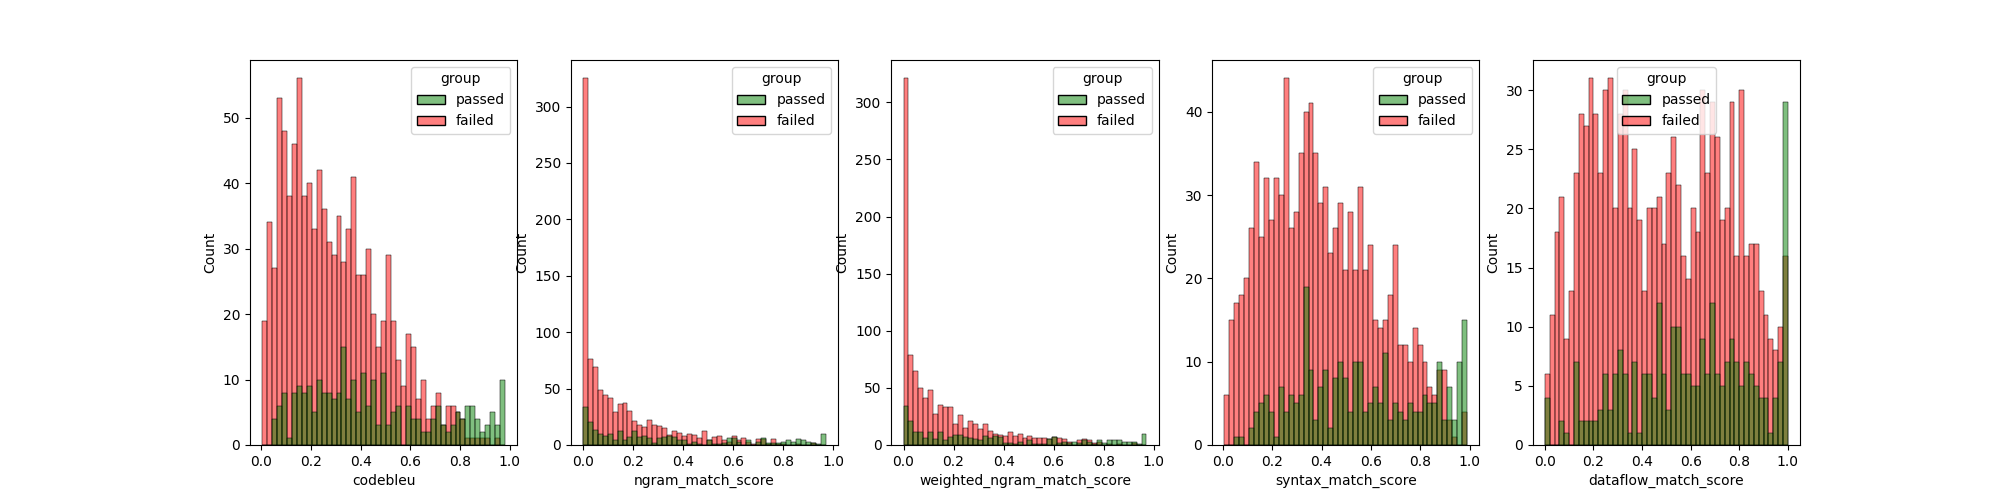
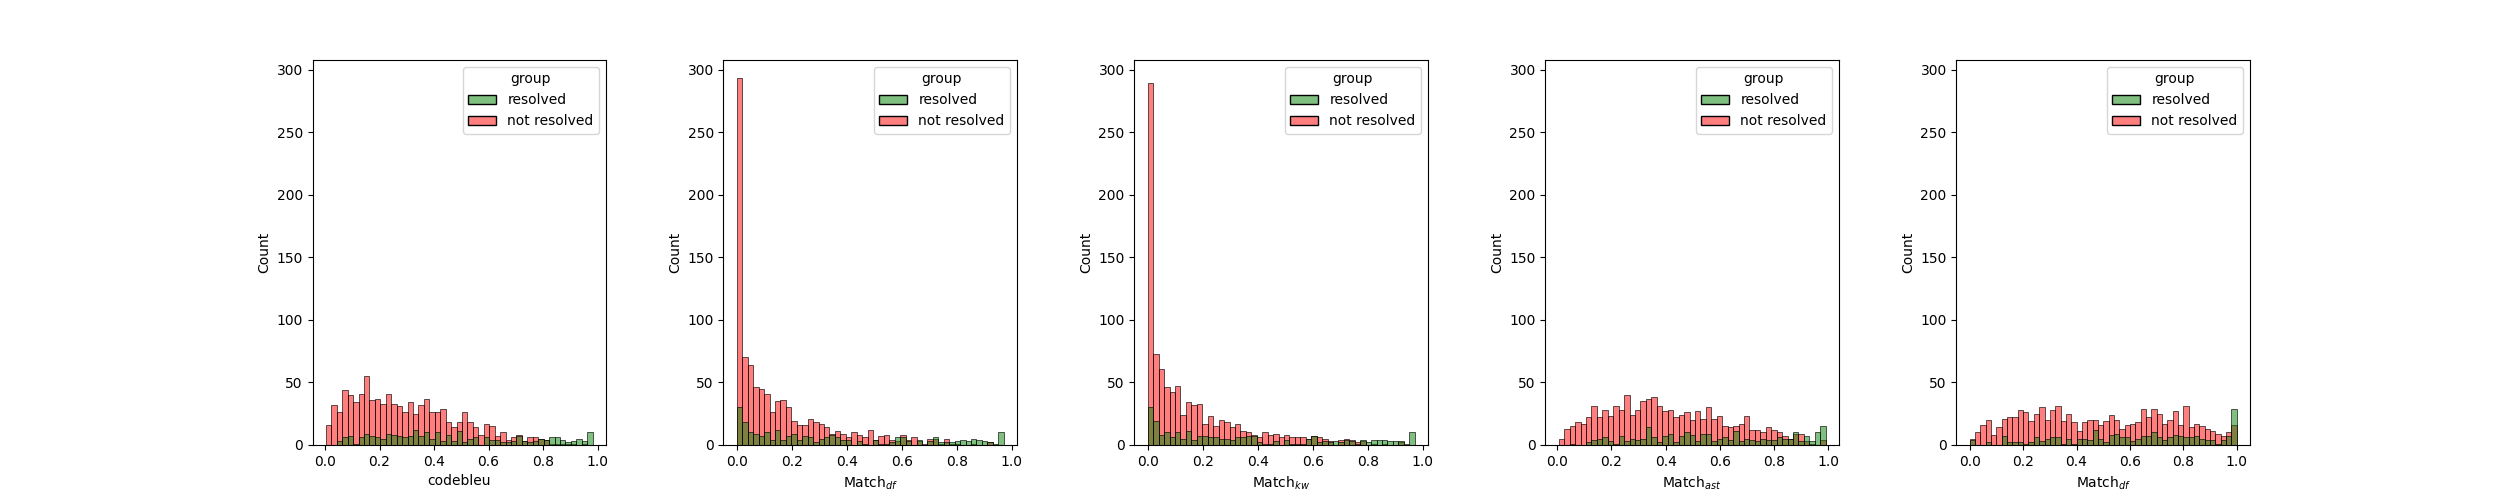
stuff

diff --git a/evaluate.py b/evaluate.py
@@ -10,6 +10,7 @@ from multiprocessing import Pool
 from pathlib import Path
 from typing import Any
 
+import argparse
 import black
 import matplotlib.pyplot as plt
 import pandas as pd
@@ -154,7 +155,7 @@ def prepare_instances():
             repohypos = hypotheses_by_repo[reponame]
             repohypos = [hypo for hypo in repohypos if hypo["instance_id"] not in known_iids]
             if len(repohypos) > 0:
-                print(f"Collecting {len(instances_by_repo[reponame])} instances for repo {reponame}.")
+                print(f"Collecting {len(hypotheses_by_repo[reponame])} instances for repo {reponame}.")
                 print(f"Collecting {len(repohypos)} instances not in output file.")
                 for hypothesis in tqdm.tqdm(repohypos):
                     source_files_content = {}
@@ -250,10 +251,10 @@ def snippet_instances():
                 instance["hypothesis_files_content"] = {key: val for key, val in instance["hypothesis_files_content"].items() if key.endswith(".py")}
                 assert len(instance["reference_files_content"]) == len(instance["source_files_content"])
                 assert len(instance["reference_files_content"]) == len(instance["hypothesis_files_content"])
-                for i in ["source", "reference", "hypothesis"]:
-                    instance[f"{i}_snippets_content"] = {
-                        k: generate_snippets(try_remove_comments_and_docstrings(v, lang="python")) for k, v in instance[f"{i}_files_content"].items()
-                    }
+                # for i in ["source", "reference", "hypothesis"]:
+                #     instance[f"{i}_snippets_content"] = {
+                #         k: generate_snippets(try_remove_comments_and_docstrings(v, lang="python")) for k, v in instance[f"{i}_files_content"].items()
+                #     }
                 selected_code_files += 1
                 output.write(json.dumps(instance) + "\n")
     print(
@@ -344,6 +345,18 @@ def score_instances():
                     instance["codegleu"] = codegleu.calc_codegleu(
                         [], [], [], lang="python", penalty=conf["codegleupenalty"], intermediates=intermediates, weights=conf["weights"]
                     )
+                    filelen = 0
+                    patchlen = 0
+                    for patchedFile in unidiff.PatchSet(instance["patch"]):
+                        hpaths: dict[str, Any] = instance["hypothesis_files_content"]
+                        if list(hpaths.keys())[0].split("\\")[0] == "experiments":
+                            hpaths = {"/".join(p.split("\\")[4:]): f for p, f in hpaths.items()}
+                        if list(hpaths.keys())[0].split("/")[0] == "experiments":
+                            hpaths = {"/".join(p.split("/")[4:]): f for p, f in hpaths.items()}
+                        if patchedFile.path in hpaths:
+                            filelen += len(hpaths[patchedFile.path])
+                            patchlen += len(str("".join("".join(str(line) for line in hunk) for hunk in patchedFile))) / 2
+                    instance["unchangedpercentage"] = max(0, 1 - (patchlen / filelen))
                     dprint(f"calculated scores for {instance['instance_id']} in {time.time() - s}s")
                     with output_lock:
                         pbar.update(1)
@@ -372,19 +385,26 @@ def recalc(instance):
     # instance["codegleu"] = codegleu.calc_codegleu(
     #     [], [], [], lang="python", penalty=conf["codegleupenalty"], intermediates=instance["intermediates"], weights=conf["weights"]
     # )
-    filelen = 0
-    patchlen = 0
-    for patchedFile in unidiff.PatchSet(instance["patch"]):
-        hpaths: dict[str, Any] = instance["hypothesis_files_content"]
-        if list(hpaths.keys())[0].split("\\")[0] == "experiments":
-            hpaths = {"/".join(p.split("\\")[4:]): f for p, f in hpaths.items()}
-        if list(hpaths.keys())[0].split("/")[0] == "experiments":
-            hpaths = {"/".join(p.split("/")[4:]): f for p, f in hpaths.items()}
-        if patchedFile.path in hpaths:
-            filelen += len(hpaths[patchedFile.path])
-            patchlen += len(str("".join("".join(str(line) for line in hunk) for hunk in patchedFile))) / 2
-    instance["unchangedpercentage"] = max(0, 1 - (patchlen / filelen))
+    if "unchangedpercentage" not in instance or not instance["unchangedpercentage"]:
+        filelen = 0
+        patchlen = 0
+        for patchedFile in unidiff.PatchSet(instance["patch"]):
+            hpaths: dict[str, Any] = instance["hypothesis_files_content"]
+            if list(hpaths.keys())[0].split("\\")[0] == "experiments":
+                hpaths = {"/".join(p.split("\\")[4:]): f for p, f in hpaths.items()}
+            if list(hpaths.keys())[0].split("/")[0] == "experiments":
+                hpaths = {"/".join(p.split("/")[4:]): f for p, f in hpaths.items()}
+            if patchedFile.path in hpaths:
+                filelen += len(hpaths[patchedFile.path])
+                patchlen += len(str("".join("".join(str(line) for line in hunk) for hunk in patchedFile))) / 2
+        instance["unchangedpercentage"] = max(0, 1 - (patchlen / filelen))
     return {k: instance[k] for k in ["codebleu", "codebleu_patch", "codegleu", "diffsim", "bleu", "instance_id", "unchangedpercentage"]}
+
+
+def write_log(*args, **kwargs):
+    with open(conf["log_loc"], "a+") as log_file:
+        print(*args, file=log_file, **kwargs)
+    print(*args, **kwargs)
 
 
 conf = {
@@ -397,18 +417,20 @@ conf = {
     "weights": (1,) * 4,
     "n_weights": (0.25,) * 4,
     "verbose": False,
+    "rankingscores_loc": f"./results/rankingscores.txt", 
 }
-conf["instances_dir"] = f"{conf['data_dir']}/instances"
-conf["model_path"] = f"{conf['data_dir']}/models/{conf['model']}"
-conf["preds_loc"] = f"{conf['model_path']}/all_preds.jsonl"
-conf["results_loc"] = f"{conf['model_path']}/results/results.json"
-conf["preprocessed_loc"] = f"{conf['model_path']}/preprocessed_instances.jsonl"
-conf["snippeted_loc"] = f"{conf['model_path']}/snippeted_instances.jsonl"
-conf["scored_loc"] = f"{conf['model_path']}/scored_instances.jsonl"
-conf["figs_loc"] = f"./figs/{conf['model']}"
 
 
 def main():
+    conf["instances_dir"] = f"{conf['data_dir']}/instances"
+    conf["model_path"] = f"{conf['data_dir']}/models/{conf['model']}"
+    conf["preds_loc"] = f"{conf['model_path']}/all_preds.jsonl"
+    conf["results_loc"] = f"{conf['model_path']}/results/results.json"
+    conf["preprocessed_loc"] = f"{conf['model_path']}/preprocessed_instances.jsonl"
+    conf["snippeted_loc"] = f"{conf['model_path']}/snippeted_instances.jsonl"
+    conf["scored_loc"] = f"{conf['model_path']}/scored_instances.jsonl"
+    conf["figs_loc"] = f"./figs/{conf['model']}"
+    conf["log_loc"] = f"./results/{conf['model']}.txt"
     os.environ["WANDB_SILENT"] = "true"
     wandb.login()
     wandb.init(project="codegleu", config=conf)
@@ -416,8 +438,9 @@ def main():
     prepare_instances()
     snippet_instances()
     score_instances()
-
-    print(
+    with open(conf["log_loc"], "w+") as log_file:
+        print(f"log for model {conf['model']} \n", file=log_file)
+    write_log(
         (f"pred_instances = {pred_instances}\n"),
         (f"invalid_instances = {invalid_instances}\n"),
         (f"valid_instances = {valid_instances}\n"),
@@ -471,50 +494,82 @@ def main():
                 notresolved.append(instance)
 
     total = len(resolved) + len(notresolved)
-    targetsize = min(conf["trim"], total) if conf["trim"] != -1 else total
-    resolved = random.sample(resolved, int(targetsize * len(resolved) / total + 0.5))
-    notresolved = random.sample(notresolved, int(targetsize * len(notresolved) / total + 0.5))
+    # targetsize = min(conf["trim"], total) if conf["trim"] != -1 else total
+    # resolved = random.sample(resolved, int(targetsize * len(resolved) / total + 0.5))
+    # notresolved = random.sample(notresolved, int(targetsize * len(notresolved) / total + 0.5))
 
     res_bleu = sum([i["bleu"] for i in resolved]) / len(resolved)
     res_codebleu = sum([i["codebleu"]["codebleu"] for i in resolved]) / len(resolved)
-    res_codegleu = sum([i["diffsim"]["diffsim"] for i in resolved]) / len(resolved)
+    res_codebleu_p = sum([i["codebleu_patch"]["codebleu"] for i in resolved]) / len(resolved)
+    res_codegleu = sum([i["codegleu"]["codegleu"] for i in resolved]) / len(resolved)
+    res_diffsim = sum([i["diffsim"]["diffsim"] for i in resolved]) / len(resolved)
 
     nres_bleu = sum([i["bleu"] for i in notresolved]) / len(notresolved)
     nres_codebleu = sum([i["codebleu"]["codebleu"] for i in notresolved]) / len(notresolved)
-    nres_codegleu = sum([i["diffsim"]["diffsim"] for i in notresolved]) / len(notresolved)
+    nres_codebleu_p = sum([i["codebleu_patch"]["codebleu"] for i in notresolved]) / len(notresolved)
+    nres_codegleu = sum([i["codegleu"]["codegleu"] for i in notresolved]) / len(notresolved)
+    nres_diffsim = sum([i["diffsim"]["diffsim"] for i in notresolved]) / len(notresolved)
 
     toscore = resolved + notresolved
     resornot = [1] * len(resolved) + [0] * len(notresolved)
 
-    print(f"Resolved Instance Averages:     BLEU: {res_bleu} CodeBLEU: {res_codebleu} CodeGLEU: {res_codegleu}")
-    print(f"Non-Resolved Instance Averages: BLEU: {nres_bleu} CodeBLEU: {nres_codebleu} CodeGLEU: {nres_codegleu}")
+    tot_bleu = sum([i["bleu"] for i in toscore]) / len(toscore)
+    tot_codebleu = sum([i["codebleu"]["codebleu"] for i in toscore]) / len(toscore)
+    tot_codebleu_p = sum([i["codebleu_patch"]["codebleu"] for i in toscore]) / len(toscore)
+    tot_codegleu = sum([i["codegleu"]["codegleu"] for i in toscore]) / len(toscore)
+    tot_diffsim = sum([i["diffsim"]["diffsim"] for i in toscore]) / len(toscore)
+
+    entries = []
+    with open(conf["rankingscores_loc"], "r+") as fp:
+        for line in fp:
+            js = json.loads(line)
+            if "model" in js and js["model"] != conf["model"]:
+                entries.append(js)
+    scores = {"model": conf["model"], "bleu": tot_bleu, "codebleu": tot_codebleu, "codegleu": tot_codegleu, "codebleu_p": tot_codebleu_p, "diffsim": tot_diffsim, "actual": len(resolved) / len(toscore)}
+    entries.append(scores)
+    with open(conf["rankingscores_loc"], "w+") as fp:
+        for js in entries:
+            fp.write(json.dumps(js) + "\n")
+
+    write_log(f"Instances. {len(toscore)}. resolved: {len(resolved)}. not resolved: {len(notresolved)}. % resolved: {len(resolved) / len(toscore)}")
+    write_log(f"Total Instance Averages:        BLEU: {tot_bleu} CodeBLEU: {tot_codebleu} CodeGLEU: {tot_codegleu} CodeBLEU_p: {tot_codebleu_p} FRITS: {tot_diffsim}")
+    write_log(f"Resolved Instance Averages:     BLEU: {res_bleu} CodeBLEU: {res_codebleu} CodeGLEU: {res_codegleu} CodeBLEU_p: {res_codebleu_p} FRITS: {res_diffsim}")
+    write_log(f"Non-Resolved Instance Averages: BLEU: {nres_bleu} CodeBLEU: {nres_codebleu} CodeGLEU: {nres_codegleu} CodeBLEU_p: {nres_codebleu_p} FRITS: {nres_diffsim}")
 
     pr = pearsonr(resornot, [i["unchangedpercentage"] for i in toscore])
-    print(f"Patch percentage vs resolved:   Correlation: {pr[0]} P-Value: {pr[1]} ")
+    write_log(f"Patch percentage vs resolved:   Correlation: {pr[0]} P-Value: {pr[1]} ")
 
     toscore = [i | {"bleu": {"bleu": i["bleu"]}} for i in toscore]
     padlen = 26
-    print(" " * 32 + "metric vs resolved          " + "metric vs unchangedpercent")
-    print(" " * 32 + "Correlation   P-Value       " + "Correlation   P-Value")
+    write_log(" " * 32 + "metric vs resolved          " + "metric vs unchangedpercent")
+    write_log(" " * 32 + "Correlation   P-Value       " + "Correlation   P-Value")
     for group in ["bleu", "codebleu", "codebleu_patch", "codegleu", "diffsim"]:
-        print(f"Performing Ablation Study for {group}")
+        write_log(f"Performing Ablation Study for {group}")
         scores = toscore[0][group]
         if isinstance(scores, dict):
             for score in scores:
-                print(f"    {score + ' ' * (padlen-len(score))} ", end="")
+                write_log(f"    {score + ' ' * (padlen-len(score))} ", end="")
                 pr = pearsonr(resornot, [i[group][score] for i in toscore])
-                print(f" {'%.10f' % pr[0]}, {'%.10f' % pr[1]} ", end="")
+                write_log(f" {'%.10f' % pr[0]}, " + str(pr[1]), end="")
                 wandb.log({f"mvr_{group}_{score}_corr": pr[0], f"mvr_{group}_{score}_p": pr[1]})
                 pr = pearsonr([i[group][score] for i in toscore], [i["unchangedpercentage"] for i in toscore])
-                print(f" {'%.10f' % pr[0]}, {'%.10f' % pr[1]} ")
+                write_log(f" {'%.10f' % pr[0]}, " + str(pr[1]))
                 wandb.log({f"mvp_{group}_{score}_corr": pr[0], f"mvp_{group}_{score}_p": pr[1]})
     if not os.path.exists(conf["figs_loc"]):
         os.mkdir(conf["figs_loc"])
     for n in ["codebleu", "codebleu_patch", "codegleu", "diffsim"]:
-        data = [s[n] | {"group": "passed" if r else "failed"} for s, r in zip(toscore, resornot)]
-        fig, axs = plt.subplots(ncols=5, figsize=(20, 5))
+        data = [s[n] | {"group": "resolved" if r else "not resolved"} for s, r in zip(toscore, resornot)]
+        fig, axs = plt.subplots(ncols=5, figsize=(25, 5))
+        plots = []
         for i, k in enumerate(toscore[0][n]):
-            sns.histplot(x=k, hue="group", data=pd.DataFrame(data), palette={"passed": "green", "failed": "red"}, binwidth=0.02, ax=axs[i])
+            p = sns.histplot(x=k, hue="group", data=pd.DataFrame(data), palette={"resolved": "green", "not resolved": "red"}, binwidth=0.02, ax=axs[i])
+            names = {"ngram_match_score": "Match$_{df}$", "weighted_ngram_match_score": "Match$_{kw}$", "syntax_match_score": "Match$_{ast}$", "dataflow_match_score": "Match$_{df}$"}
+            p.set(xlabel=(names[k] if k in names else k))
+            plots.append(p)
+        maxlim = max([p.get_ylim()[1] for p in plots])
+        for p in plots:
+            p.set_ylim(top = maxlim, bottom = 0)
+        plt.subplots_adjust(hspace = 0.4, wspace = 0.4)
         fig.savefig(f"{conf['figs_loc']}/{n}_scores.png")
         plt.close()
     sns.regplot(x=[i["diffsim"]["diffsim"] for i in toscore], y=resornot)
@@ -536,7 +591,7 @@ def main():
     scoregroups = [i | {"mvp_c": int(100 * i["mvp"][0]), "mvp_p": int(100 * i["mvp"][1])} for i in scoregroups]
     df = pd.DataFrame(scoregroups)
     for n in ["mvr_c", "mvr_p", "mvp_c", "mvp_p"]:
-        sns.regplot(x=df["name"], y=df[n])
+        sns.barplot(x=df["name"], y=df[n])
         plt.savefig(f"{conf['figs_loc']}/score {n} bars.png")
         plt.close()
     wandb.finish()
@@ -556,4 +611,8 @@ if __name__ == "__main__":
     no_code_files = 0
     selected_code_files = 0
     total_code_files = 0
+    parser = argparse.ArgumentParser(prog='Evaluate', description='Run evaluation pipeline')
+    parser.add_argument("--model", help="model subpath to evaluate", default="20240402_sweagent_gpt4", type=str)
+    args = parser.parse_args()
+    conf["model"] = args.model
     main()

diff --git a/data_eval.py b/data_eval.py
@@ -1,0 +1,74 @@
+import regex as re
+import json
+import unidiff
+import tqdm
+import copy
+
+def pad(s, ln, pos: str):
+    match pos:
+        case "r":
+            return s + " " * (ln - len(s))
+        case "l":
+            return " " * (ln - len(s)) + s
+        case "m":
+            return " " * int((ln - len(s)) / 2) + s + " " * int((ln - len(s)) / 2 + (len(s) % 2 == 1))
+        case _:
+            return s
+
+preds = "./data/models/20240402_sweagent_gpt4/all_preds.jsonl"
+data = {}
+default_data = {
+    "# instances": 0,
+    "# None instances": 0,
+    "# Files Edited": [],
+    "% Code Files": [],
+    "# Hunks Edited": [],
+    "# Lines Edited": [],
+    "# Lines Added": [],
+    "# Lines Removed": [],
+}
+
+with open(preds) as fp:
+    for line in tqdm.tqdm(fp):
+        instance = json.loads(line)
+        iid = instance["instance_id"]
+        rm = re.match(r"(.*?)__(.*?)-([0-9]+)", iid)
+        repo = rm.group(2)
+        if repo not in data:
+            data[repo] = copy.deepcopy(default_data)
+        data[repo]["# instances"] += 1
+        if instance["model_patch"] is None or not instance["model_patch"]:
+            data[repo]["# None instances"] += 1
+            continue
+        filesnum = 0
+        codefiles = 0
+        addednum = 0
+        removednum = 0
+        hunknum = 0
+        for file in unidiff.PatchSet(instance["model_patch"]):
+            filesnum += 1
+            addednum += file.added
+            removednum += file.removed
+            if file.path.endswith("py"):
+                codefiles += 1
+            for hunk in file:
+                hunknum += 1
+        editednum = addednum + removednum
+        data[repo]["# Files Edited"].append(filesnum)
+        data[repo]["% Code Files"].append(codefiles / filesnum)
+        data[repo]["# Lines Edited"].append(editednum)
+        data[repo]["# Lines Added"].append(addednum)
+        data[repo]["# Lines Removed"].append(removednum)
+        data[repo]["# Hunks Edited"].append(hunknum)
+
+for repo in data:
+    for key in default_data:
+        if isinstance(data[repo][key], list):
+            ls = data[repo][key]
+            data[repo][key] = sum(ls)/len(ls)
+
+padlen = max([len(repo) for repo in data])
+entrylen = max([len(key) for key in default_data])
+print(" " * entrylen + " | " + " | ".join([pad(repo, padlen, "r") for repo in data]))
+for key in default_data:
+    print(pad(key, entrylen, "r") + " | "  + " | ".join([pad('%.2f' % data[repo][key] if isinstance(data[repo][key], float) else str(data[repo][key]), padlen, "r") for repo in data]))

diff --git a/codegleu/syntax_match.py b/codegleu/syntax_match.py
@@ -108,6 +108,7 @@ def corpus_syntax_score(
             ref_removed = source_interm - (source_interm & reference_interm)
             hyp_added = hypothesis_interm - (source_interm & hypothesis_interm)
             hyp_removed = source_interm - (source_interm & hypothesis_interm)
+            
             correct_changes = ((ref_added & hyp_added) + (ref_removed & hyp_removed)).total()
             wrong_changes = ((hyp_added - ref_added) + (hyp_removed - ref_removed)).total()
             total_changes = (ref_added + ref_removed).total()

diff --git a/codegleu/ngram_match.py b/codegleu/ngram_match.py
@@ -125,6 +125,7 @@ def corpus_gleu_score(
                 ref_removed = source_interm_n - reference_interm_n
                 hyp_added = hypothesis_interm_n - source_interm_n
                 hyp_removed = source_interm_n - hypothesis_interm_n
+
                 correct_changes = weighted_count((ref_added & hyp_added) + (ref_removed & hyp_removed))
                 wrong_changes = weighted_count((hyp_added - ref_added) + (hyp_removed - ref_removed))
                 total_changes = weighted_count(ref_added + ref_removed)

diff --git a/git_utils.py b/git_utils.py
@@ -166,7 +166,7 @@ class GitRepo:
         relpath = str(file_path).lstrip("\\").lstrip("/")  # if you attempt to combine two absolute pathlib paths, one is taken as a source
         path = repo_path / relpath
         with open(Path(path)) as f:
-            return sum(1 for _ in f)
+            return len(f)
 
     def write_code(self, code: dict[str, str]) -> None:
         for file_path, content in code.items():

diff --git a/runranking.py b/runranking.py
@@ -1,0 +1,11 @@
+import os
+from pathlib import Path
+file = Path(os.path.realpath(__file__))
+root = file.parent
+modelfolder = root.joinpath(Path("data/models/lite"))
+
+done = os.listdir(str(root.joinpath(Path("results/lite"))))
+for model in os.listdir(str(modelfolder)):
+    if model + ".txt" in done:
+        continue
+    os.system(f"python evaluate.py --model lite/{model}")

diff --git a/codegleu/codebleu/syntax_match.py b/codegleu/codebleu/syntax_match.py
@@ -30,7 +30,6 @@ def corpus_syntax_match(references, candidates, lang, tree_sitter_language=None)
     parser = Parser()
     parser.language = tree_sitter_language
     match_count = 0
-    match_count_candidate_to_reference = 0
     total_count = 0
 
     for i in range(len(candidates)):
